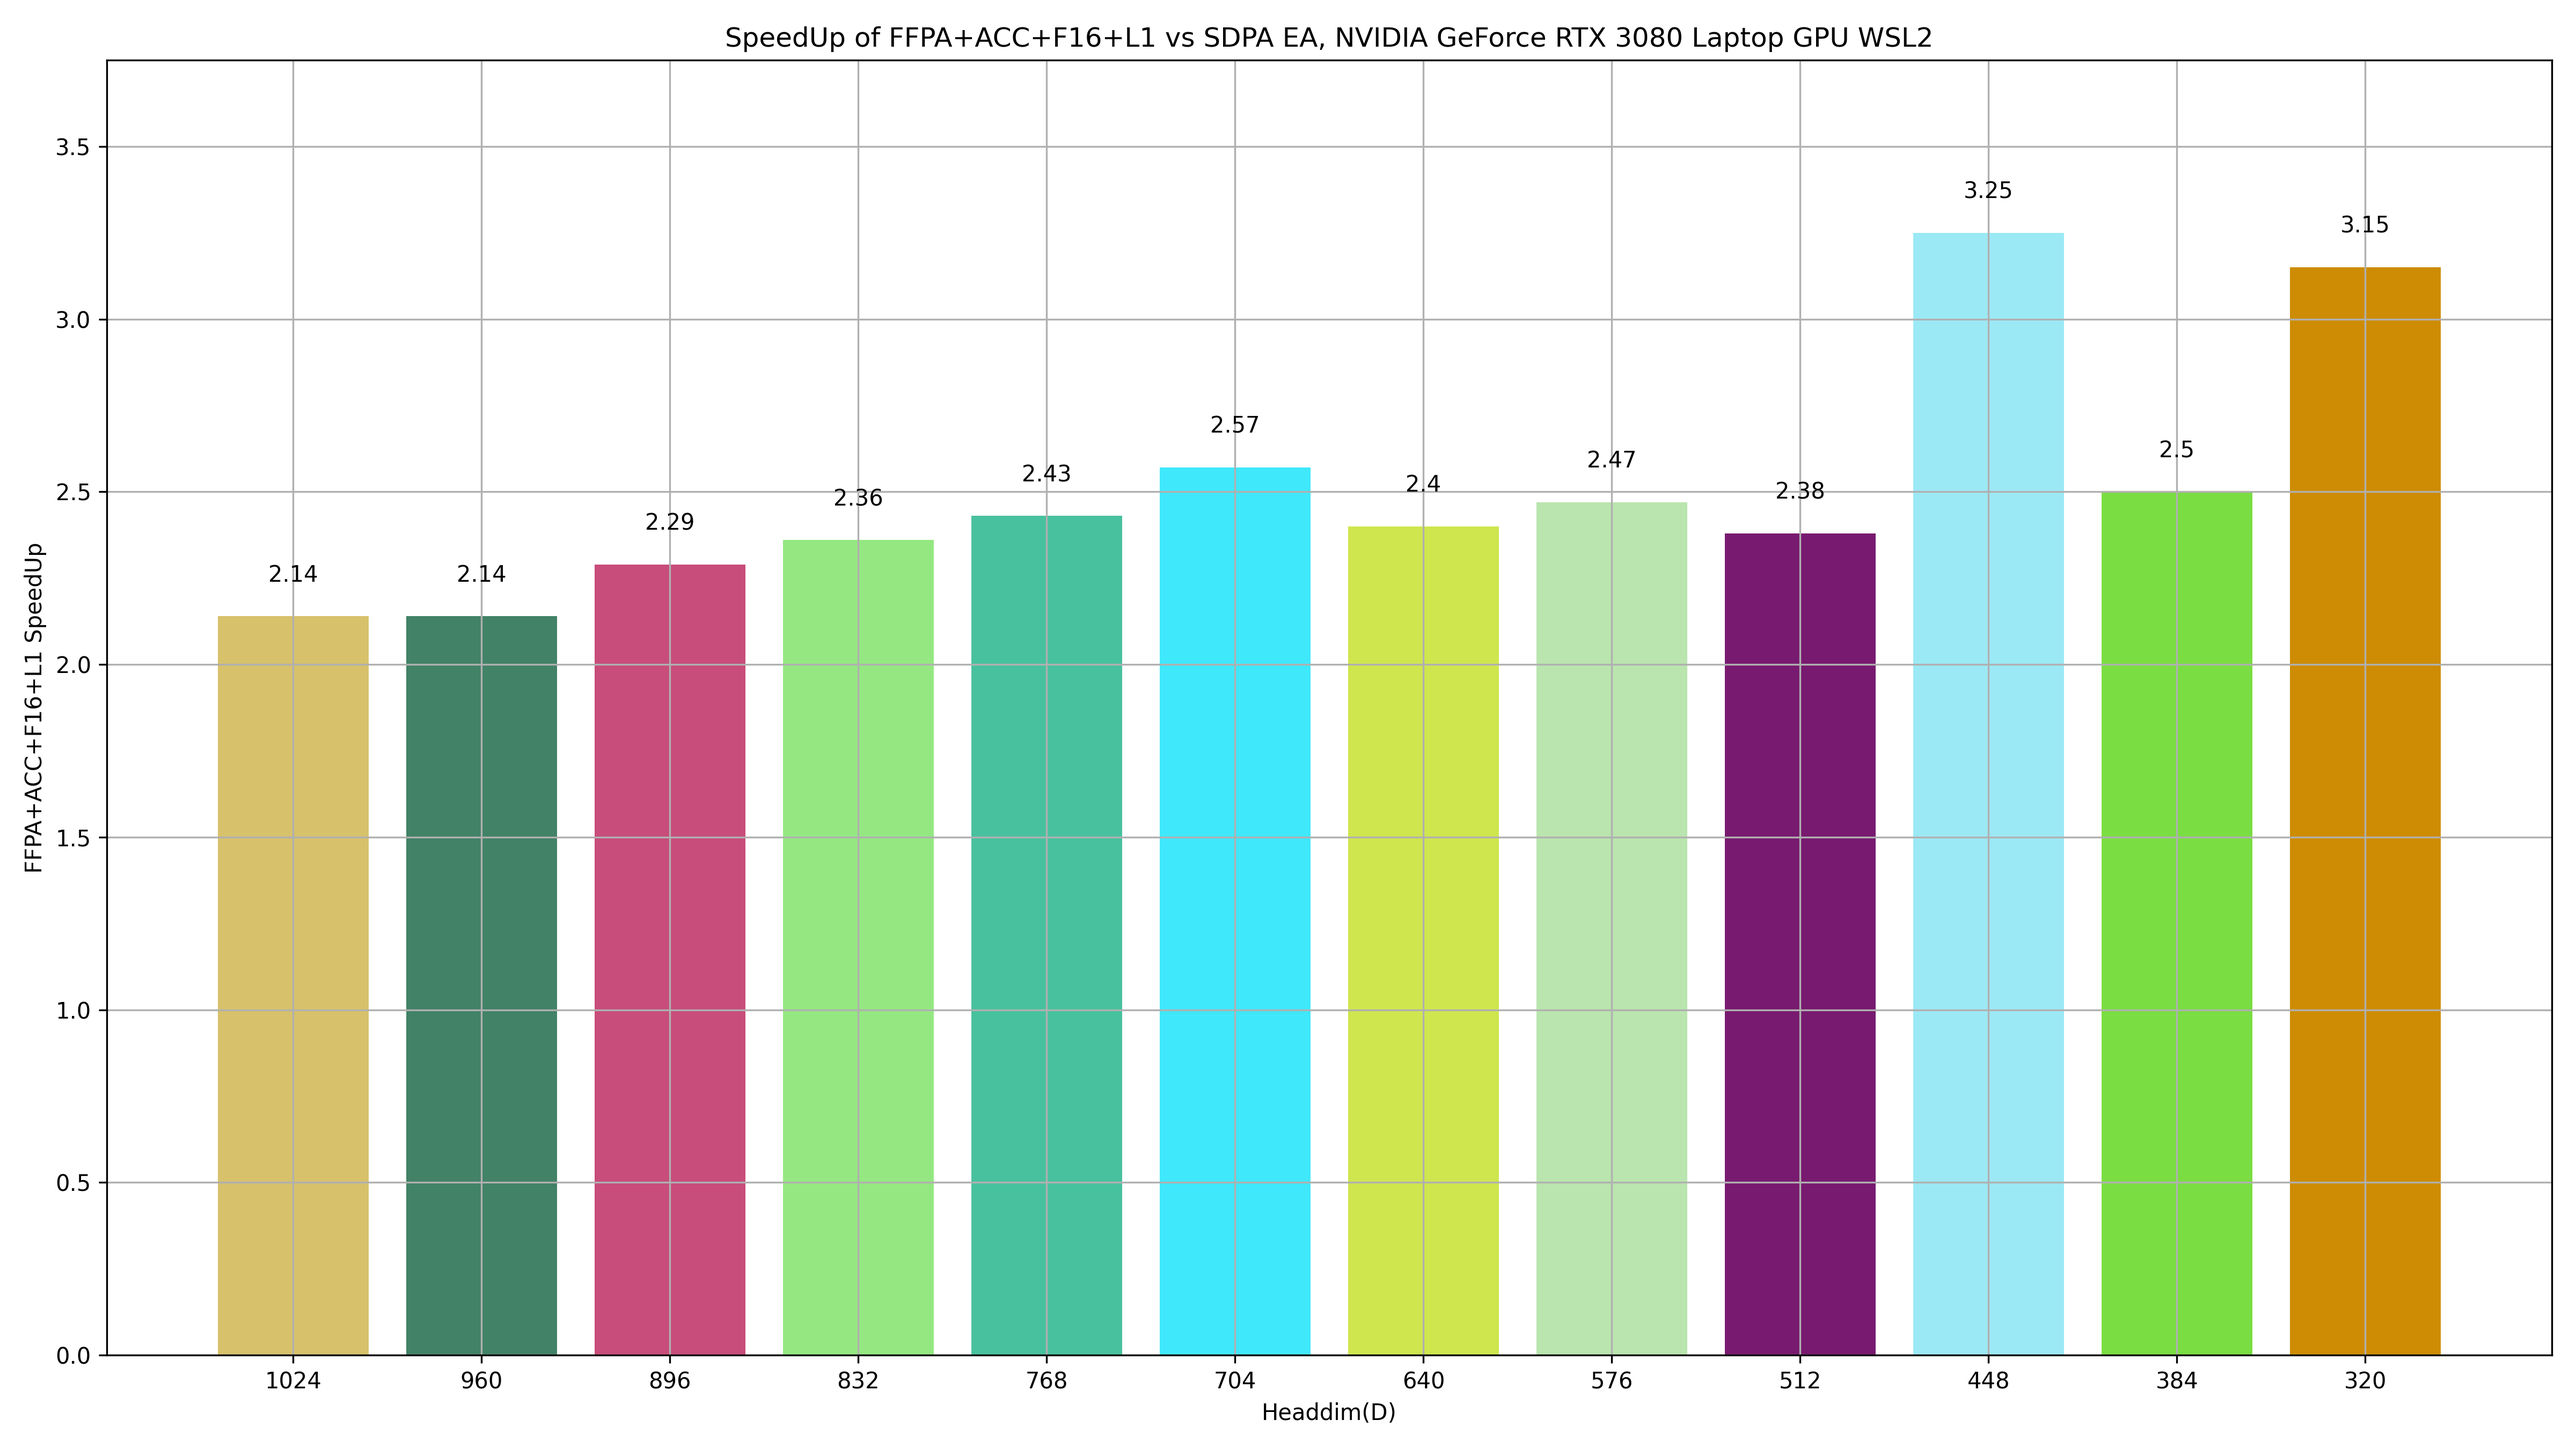
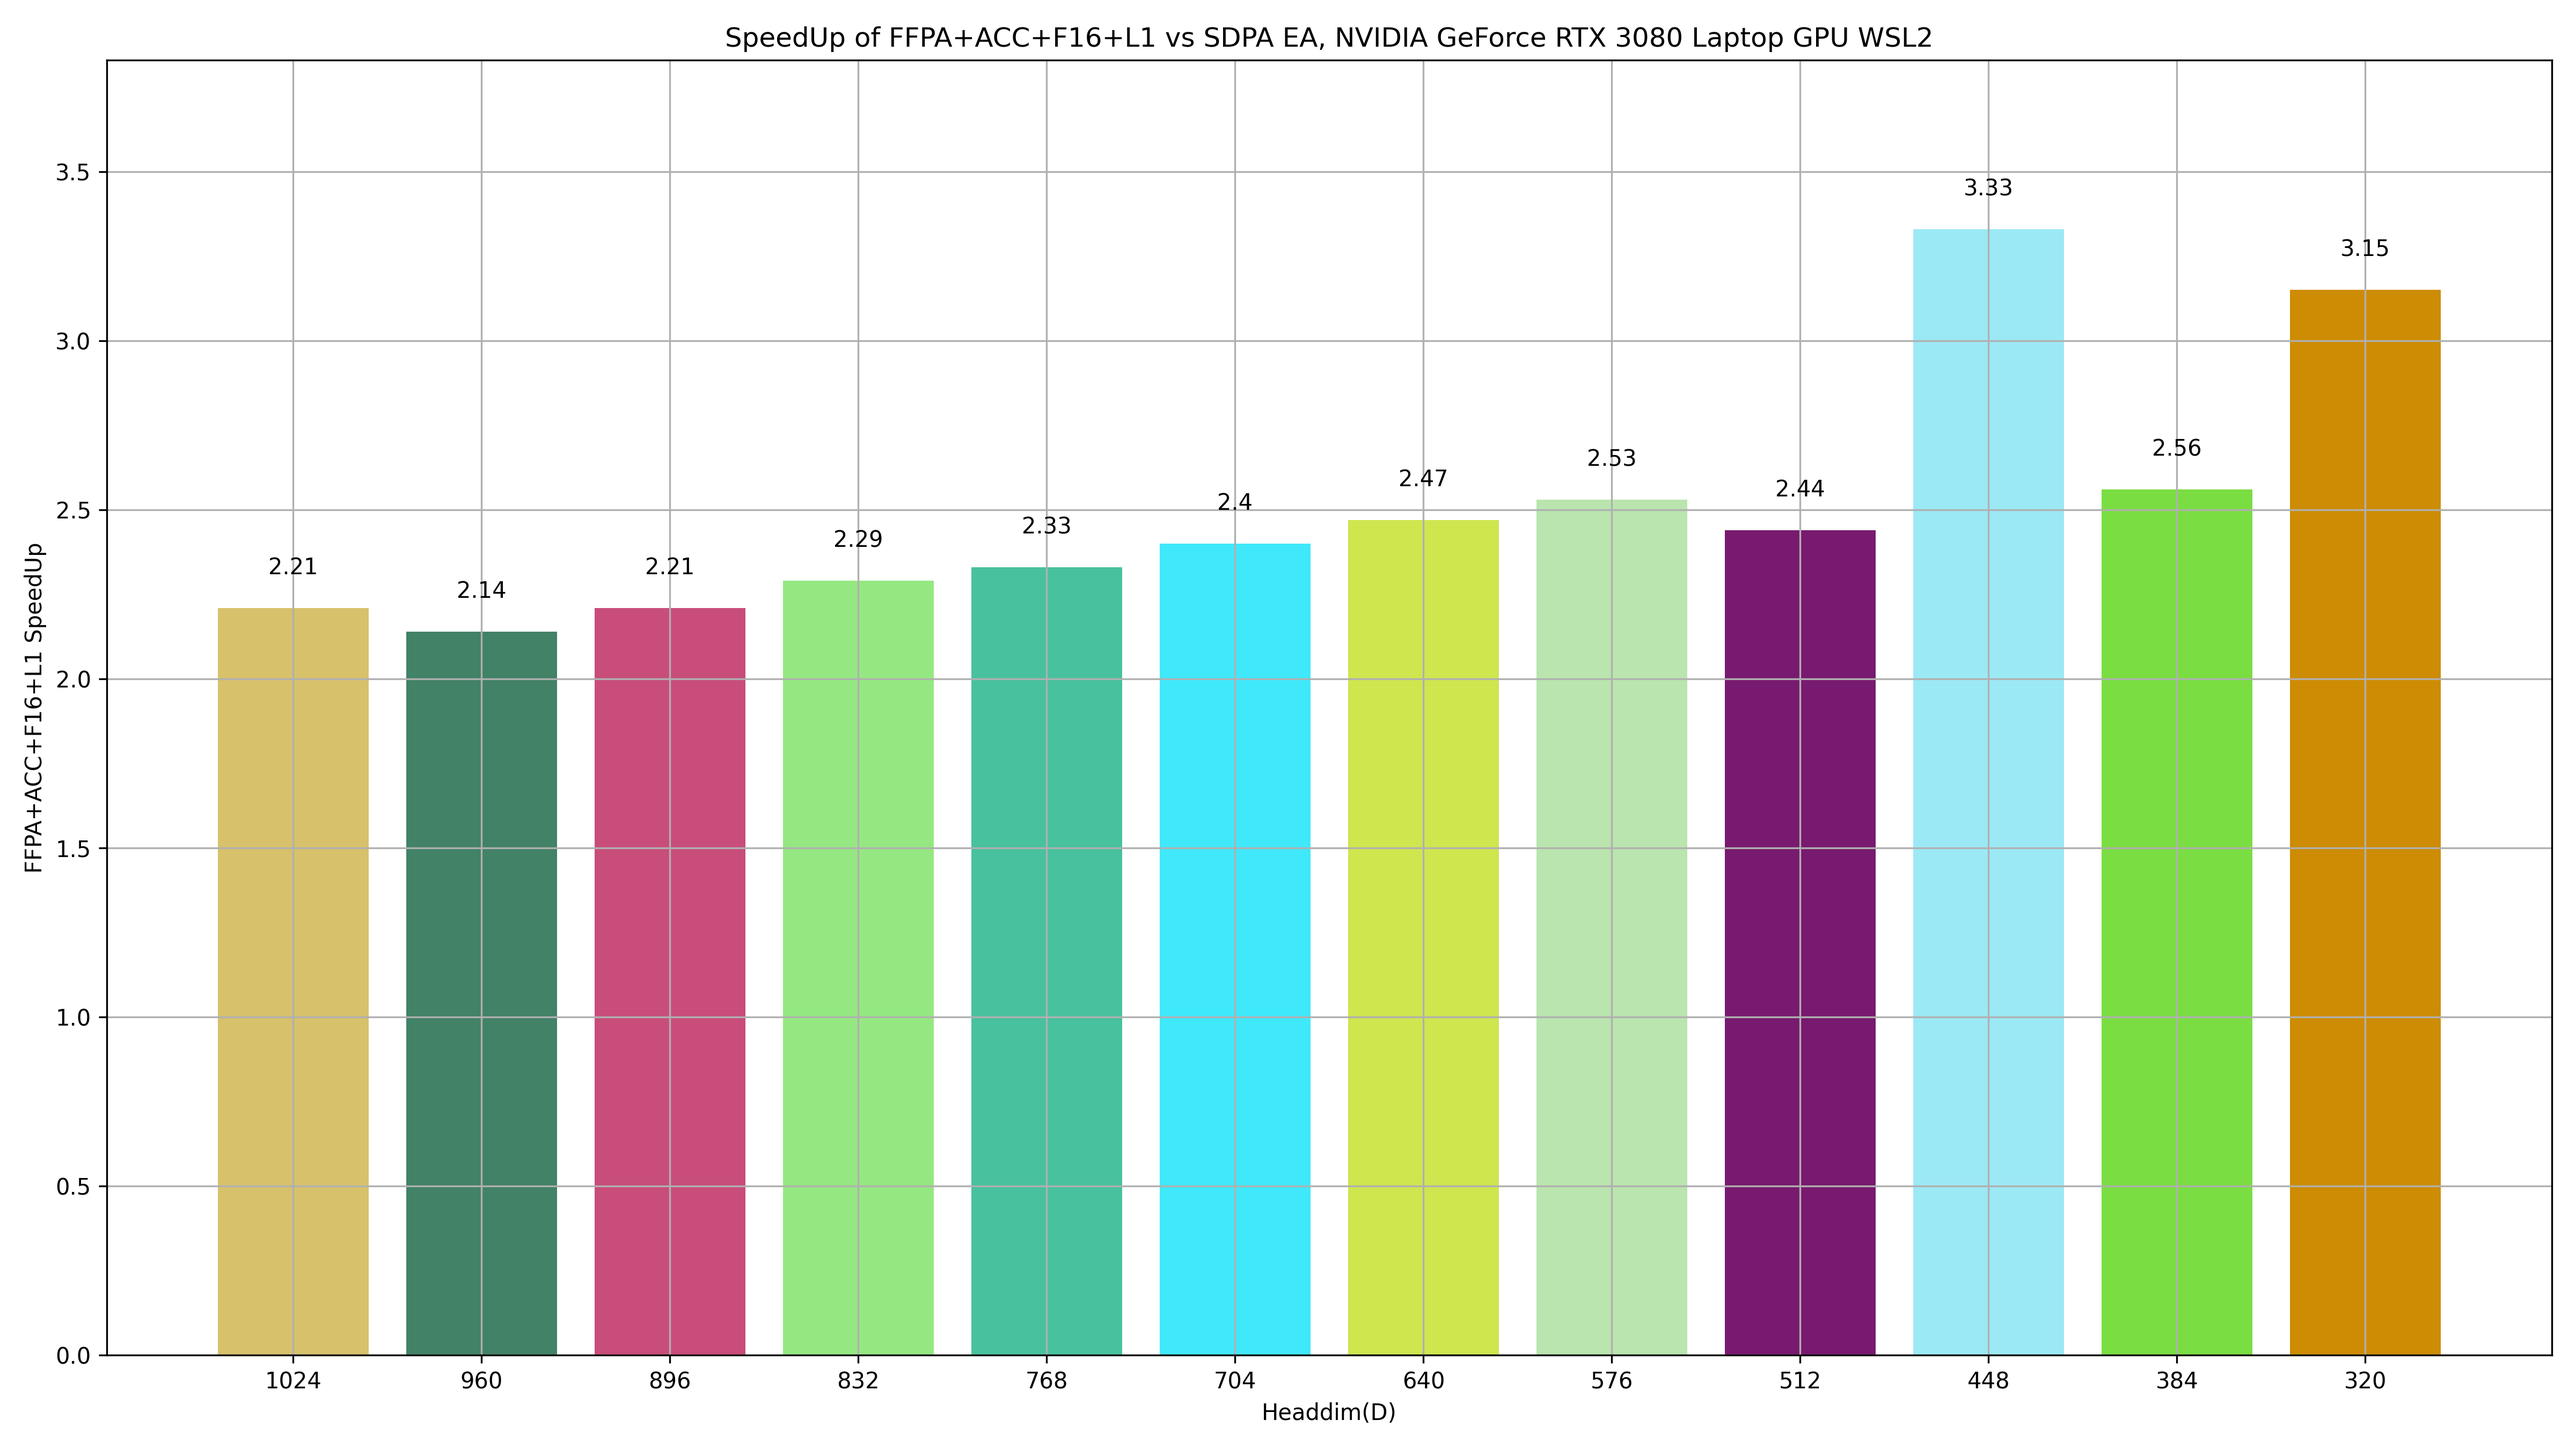
add perf plots

diff --git a/README.md b/README.md
@@ -20,7 +20,7 @@
 
 💡NOTE: This project is still in its early dev stages and now provides some kernels and benchmarks for reference. More features will be added in the future. 👇Features🎉🎉(Welcome to 🌟👆🏻star this repo to support me ~)
 
-|Tensor Cores|Loop over N/D |Tile Block (Br, Bc) |MMA (16816, Acc F16/F32)|
+|Tensor Cores|Loop over N/D |Tile Block (Br, Bc) |MMA (16816-Acc-F16/F32)|
 |:---:|:---:|:---:|:---:|
 |✔|✔|✔|✔|
 |**Split Q** (FA-2)|Pack LDST (128 bits)|SMEM **Swizzle**/Padding |Copy Async |
@@ -135,6 +135,16 @@ L1: level 1, O(2xBrx16)≈O(1) SRAM complexity, O(d/4) register complexity, the 
 |Speedup|2.54x|1.94x|2.58x|1.75x|1.87x|1.8x|1.86x|1.79x|1.79x|1.71x|1.64x|1.64x|
 |FFPA L1^|41T|40T|39T|38T|37T|36T|36T|34T|33T|32T|30T|30T|
 |Speedup|3.15x|2.5x|3.25x|2.38x|2.47x|2.4x|2.57x|2.43x|2.36x|2.29x|2.14x|2.14x|
+
+- 📚 NVIDIA RTX 3080 Laptop (`*`=MMA Acc: QK F32 + PV F16, `^`=MMA Acc F16, `T`=TFLOPS, **~2.8x↑🎉**)
+
+|Algorithm|320|384|448|512|576|640|704|768|832|896|960|1024|
+|:---:|:---:|:---:|:---:|:---:|:---:|:---:|:---:|:---:|:---:|:---:|:---:|:---:|
+|SDPA EA|13T|16T|12T|16T|15T|15T|15T|15T|14T|14T|14T|14T|
+|FFPA L1*|37T|35T|35T|33T|31T|30T|30T|29T|26T|28T|26T|25T|
+|Speedup|2.85x|2.19x|2.92x|2.06x|2.07x|2.0x|2.0x|1.93x|1.86x|2.0x|1.86x|1.79x|
+|FFPA L1^|41T|41T|40T|39T|38T|37T|36T|35T|32T|31T|30T|31T|
+|Speedup|3.15x|2.56x|3.33x|2.44x|2.53x|2.47x|2.4x|2.33x|2.29x|2.21x|2.14x|2.21x|
 
 - 📚 NVIDIA RTX 4090 (`*`=MMA Acc F32, `^`=MMA Acc F16, `T`=TFLOPS, **~1.8x↑🎉**)
 
